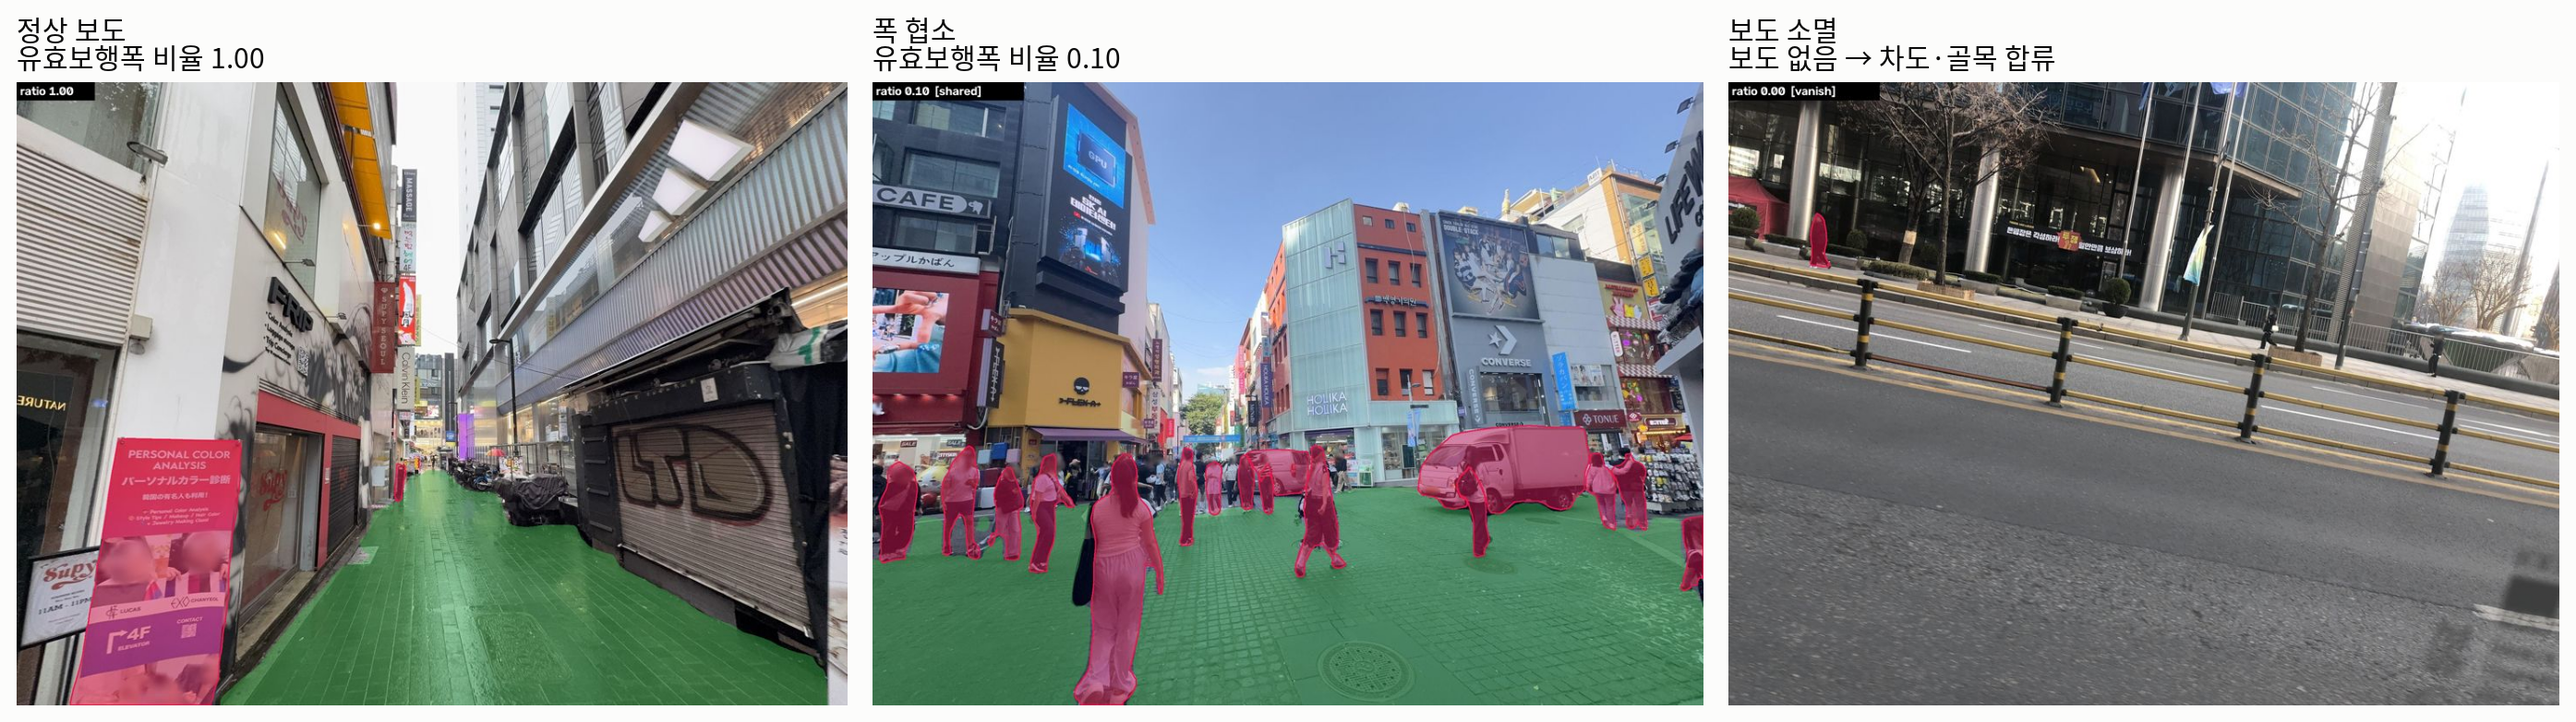
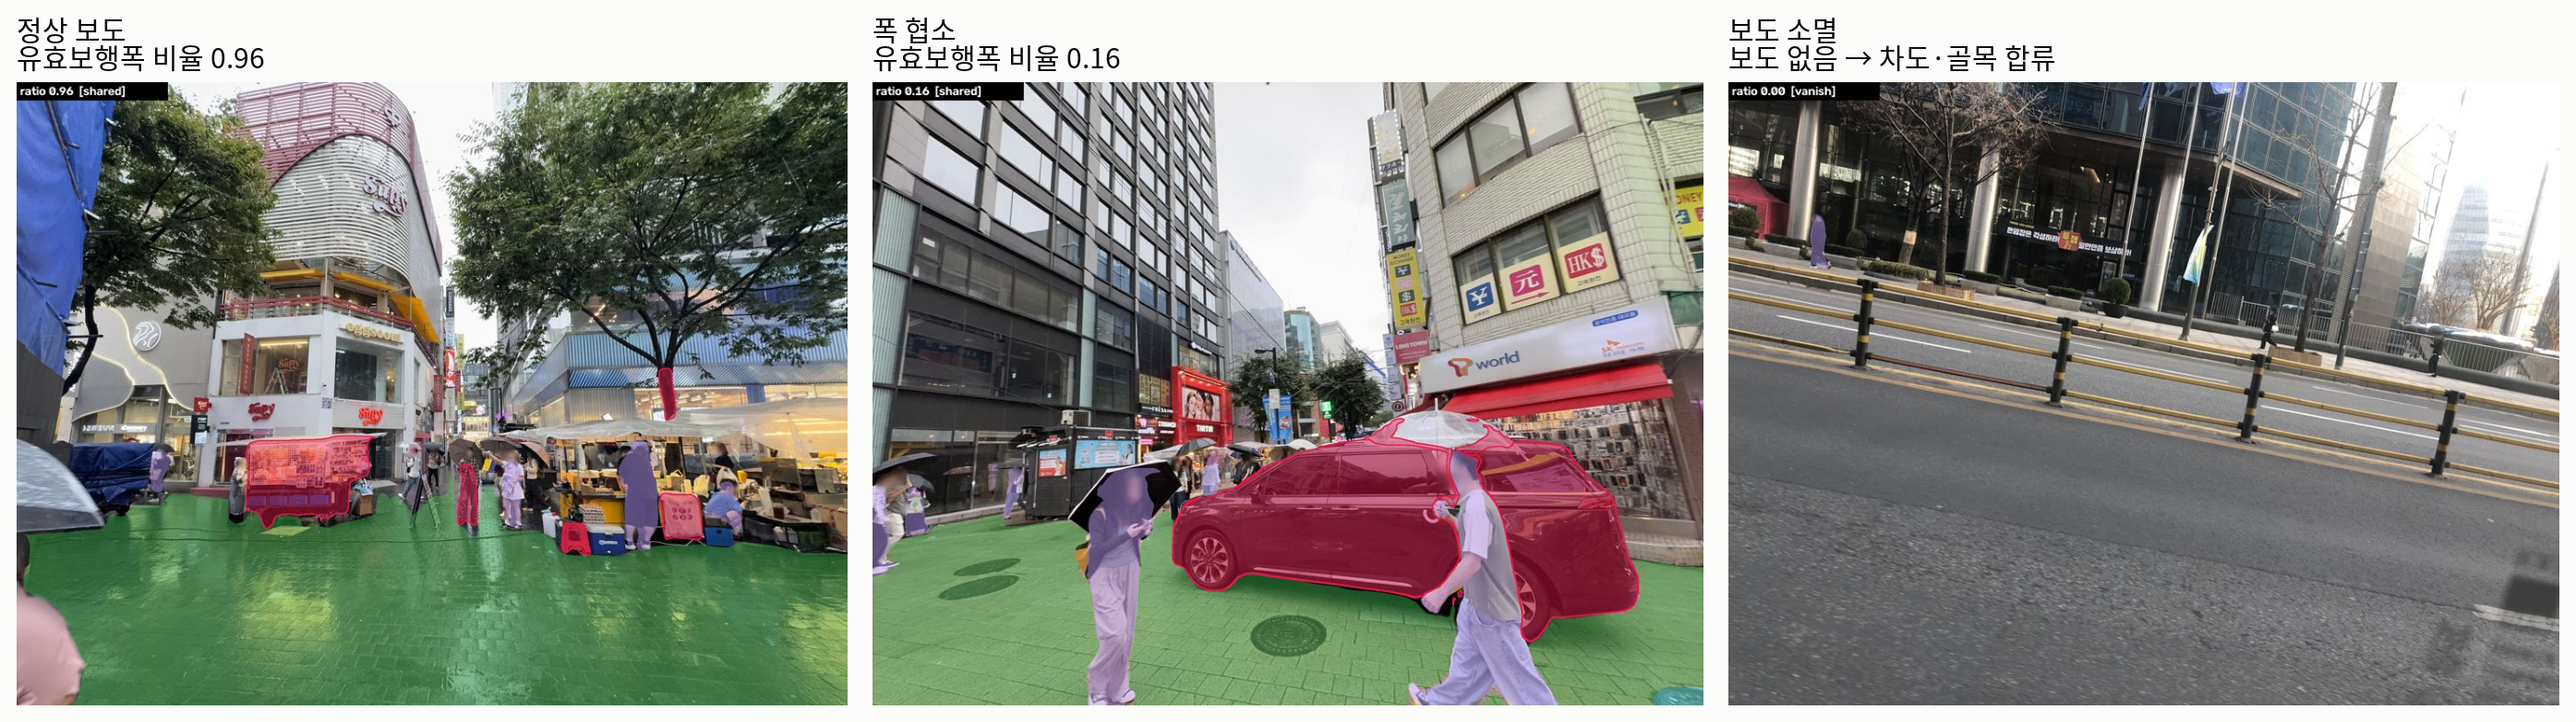
corridor 보도 비중 25% 미만 행 제외(멀리서 조각난 보도 옆 차도 트럭 오판), 이동 객체 연보라 표시, 최종 모델로 실사진 재분석·그림 갱신

diff --git a/src/roadpush/width_ratio.py b/src/roadpush/width_ratio.py
@@ -118,7 +118,9 @@ def obstacles_on_sidewalk(sidewalk: Mask, instances: Iterable[Mask], dilate_px: 
 # ---------------------------------------------------------------- 핵심
 
 def row_ratio(sidewalk_row: np.ndarray, obstacle_row: np.ndarray, y: int = 0,
-              min_sidewalk_px: int = 40, gap_px: int = 0) -> RowResult | None:
+              min_sidewalk_px: int = 40, gap_px: int = 0, min_walk_share: float = 0.25) -> RowResult | None:
+    """min_walk_share: corridor 중 보도 픽셀 비중이 이보다 작으면 None — 멀리서 조각난 보도 옆
+    차도 위 차량이 통째로 corridor 가 되는 오판 방지(명동 실사진). 실제로 보도를 막은 장애물은 가까운 행에서 잡힌다."""
     S = np.asarray(sidewalk_row, dtype=bool)
     O = np.asarray(obstacle_row, dtype=bool)
     if gap_px > 0 and O.any():   # 장애물 좌우 통과 여유 + 마스크 경계 틈 메우기
@@ -130,7 +132,7 @@ def row_ratio(sidewalk_row: np.ndarray, obstacle_row: np.ndarray, y: int = 0,
         key = (n_s, b - a)
         if key > best_key:
             best_key, best = key, (a, b)
-    if best is None or best_key[0] < min_sidewalk_px:
+    if best is None or best_key[0] < min_sidewalk_px or best_key[0] < min_walk_share * best_key[1]:
         return None
     a, b = best
     free_runs = runs(S[a:b] & ~O[a:b])

diff --git a/src/roadpush/infer.py b/src/roadpush/infer.py
@@ -27,6 +27,7 @@ PALETTE = {
     "repair_zone": (245, 130, 48), "manhole_grating": (70, 240, 240), "tree_zone": (128, 0, 0),
 }
 OBSTACLE_RGB = (230, 25, 75)
+TRANSIENT_RGB = (190, 160, 255)   # 보행자 등 이동 객체: 장애물로 세지 않으므로 다른 색
 
 
 class Predictor:
@@ -75,13 +76,15 @@ def render_overlay(image_rgb: np.ndarray, class_masks: dict[str, list[np.ndarray
 
     out = image_rgb.copy()
     layer = out.copy()
+    from .classes import TRANSIENT_CLASSES
+
     for cls, ms in class_masks.items():
-        color = PALETTE.get(cls, OBSTACLE_RGB)
+        color = PALETTE.get(cls, TRANSIENT_RGB if cls in TRANSIENT_CLASSES else OBSTACLE_RGB)
         for m in ms:
             layer[m] = color
     out = cv2.addWeighted(layer, alpha, out, 1 - alpha, 0)
     for cls, ms in class_masks.items():
-        if cls in PALETTE:
+        if cls in PALETTE or cls in TRANSIENT_CLASSES:
             continue
         for m in ms:
             cnts, _ = cv2.findContours(m.astype(np.uint8), cv2.RETR_EXTERNAL, cv2.CHAIN_APPROX_SIMPLE)

diff --git a/tests/test_width_ratio.py b/tests/test_width_ratio.py
@@ -117,3 +117,12 @@ def test_metric_width_obstacle_and_edge_cut():
     assert mw is not None and mw.width_m == pytest.approx(1.3 * 4.0, rel=0.03)
     wider = _trapezoid(a=8.0)         # 남는 행이 min_rows 미만 → None
     assert frame_ratio(wider, np.zeros_like(wider)).metric is None
+
+
+def test_row_ignored_when_corridor_mostly_obstacle():
+    S = np.zeros(200, dtype=bool); S[50:60] = True       # 멀리서 조각난 보도 10px … 너무 적어서 기본 min_sidewalk_px 로도 걸러짐
+    O = np.zeros(200, dtype=bool); O[60:150] = True      # 붙어 있는 차도 위 트럭 90px
+    assert row_ratio(S, O, min_sidewalk_px=5) is None    # 보도 비중 10% < 25% → 판단 제외
+    S2 = np.zeros(200, dtype=bool); S2[20:120] = True; S2[90:110] = False
+    O2 = np.zeros(200, dtype=bool); O2[90:110] = True    # 보도 한가운데 장애물(보도 비중 80%) → 정상 계산
+    assert row_ratio(S2, O2).ratio == pytest.approx(0.7)
